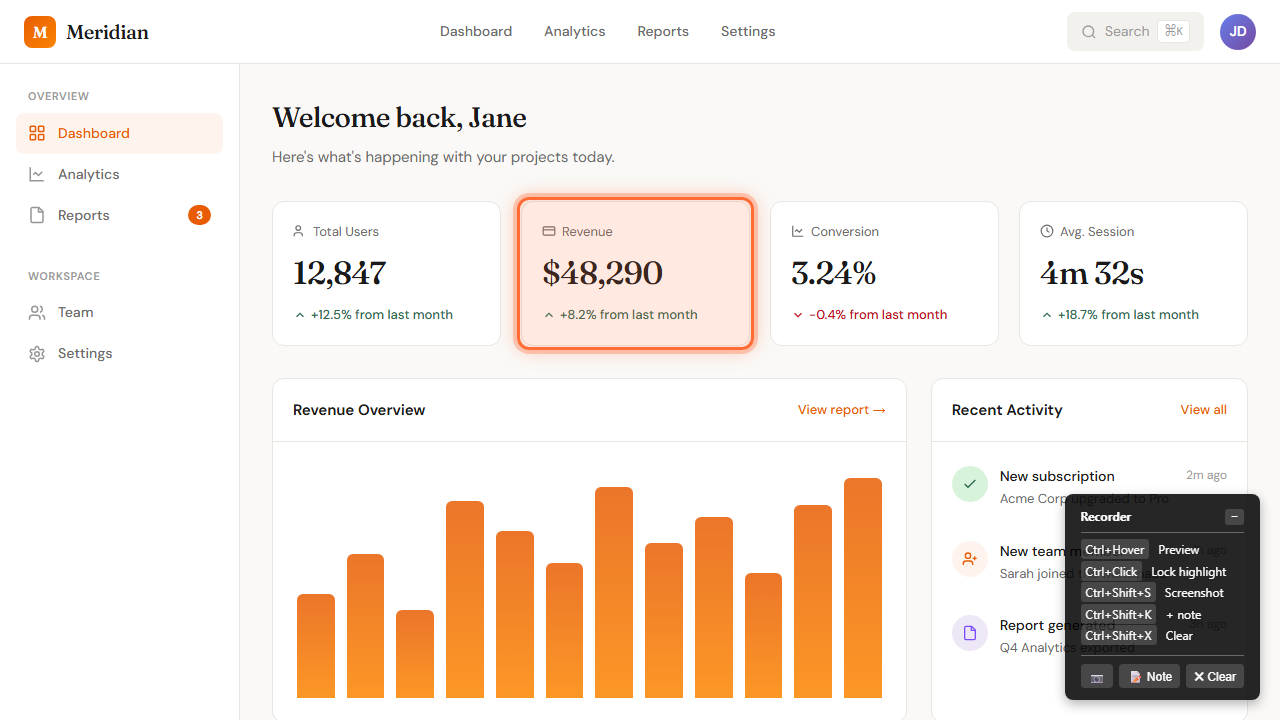
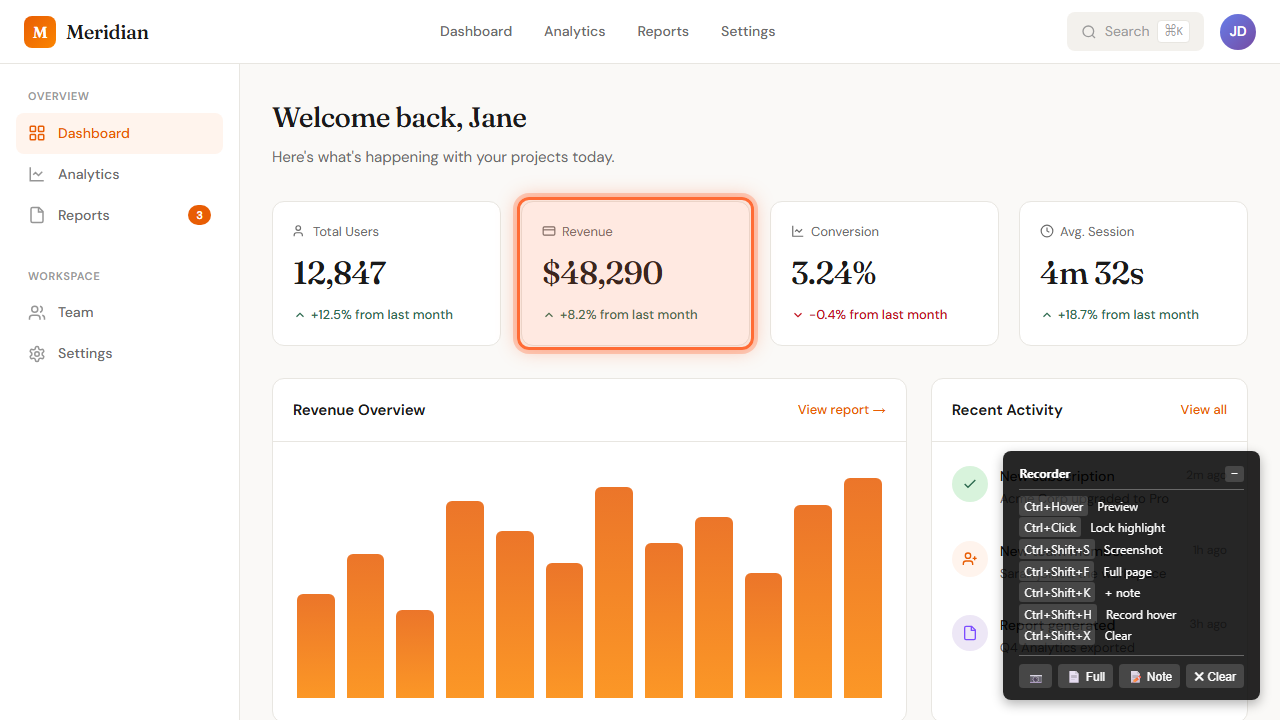
docs: update README and screenshots for hover recording

Changed region(s): [[0.7812, 0.6111, 1.0, 1.0]]

diff --git a/README.md b/README.md
@@ -89,7 +89,7 @@ node recorder.js <url> [output-dir] [viewport] [title]
 | `Ctrl+Shift+S` | Take screenshot |
 | `Ctrl+Shift+K` | Screenshot with note (opens markdown editor) |
 | `Ctrl+Shift+F` | Full page screenshot |
-| `Ctrl+Shift+H` | Toggle highlight on hovered element |
+| `Ctrl+Shift+H` | Record hover + toggle highlight |
 | `Ctrl+Shift+X` | Clear highlight |
 | `Ctrl+C` | Stop recording and save |
 
